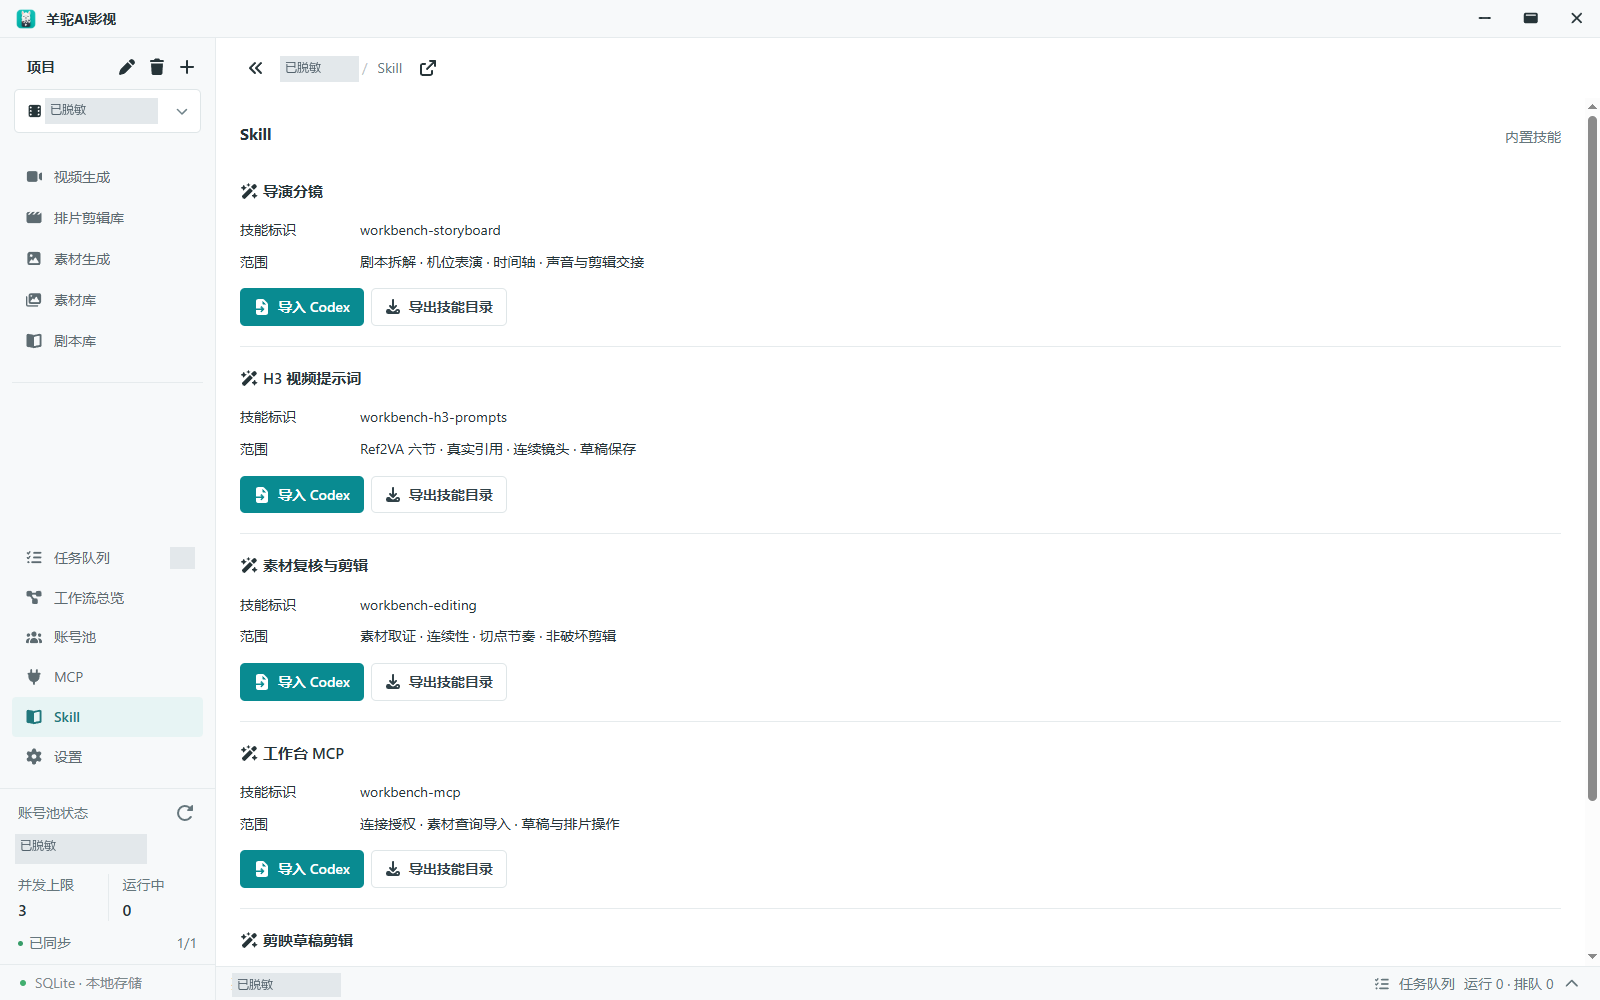
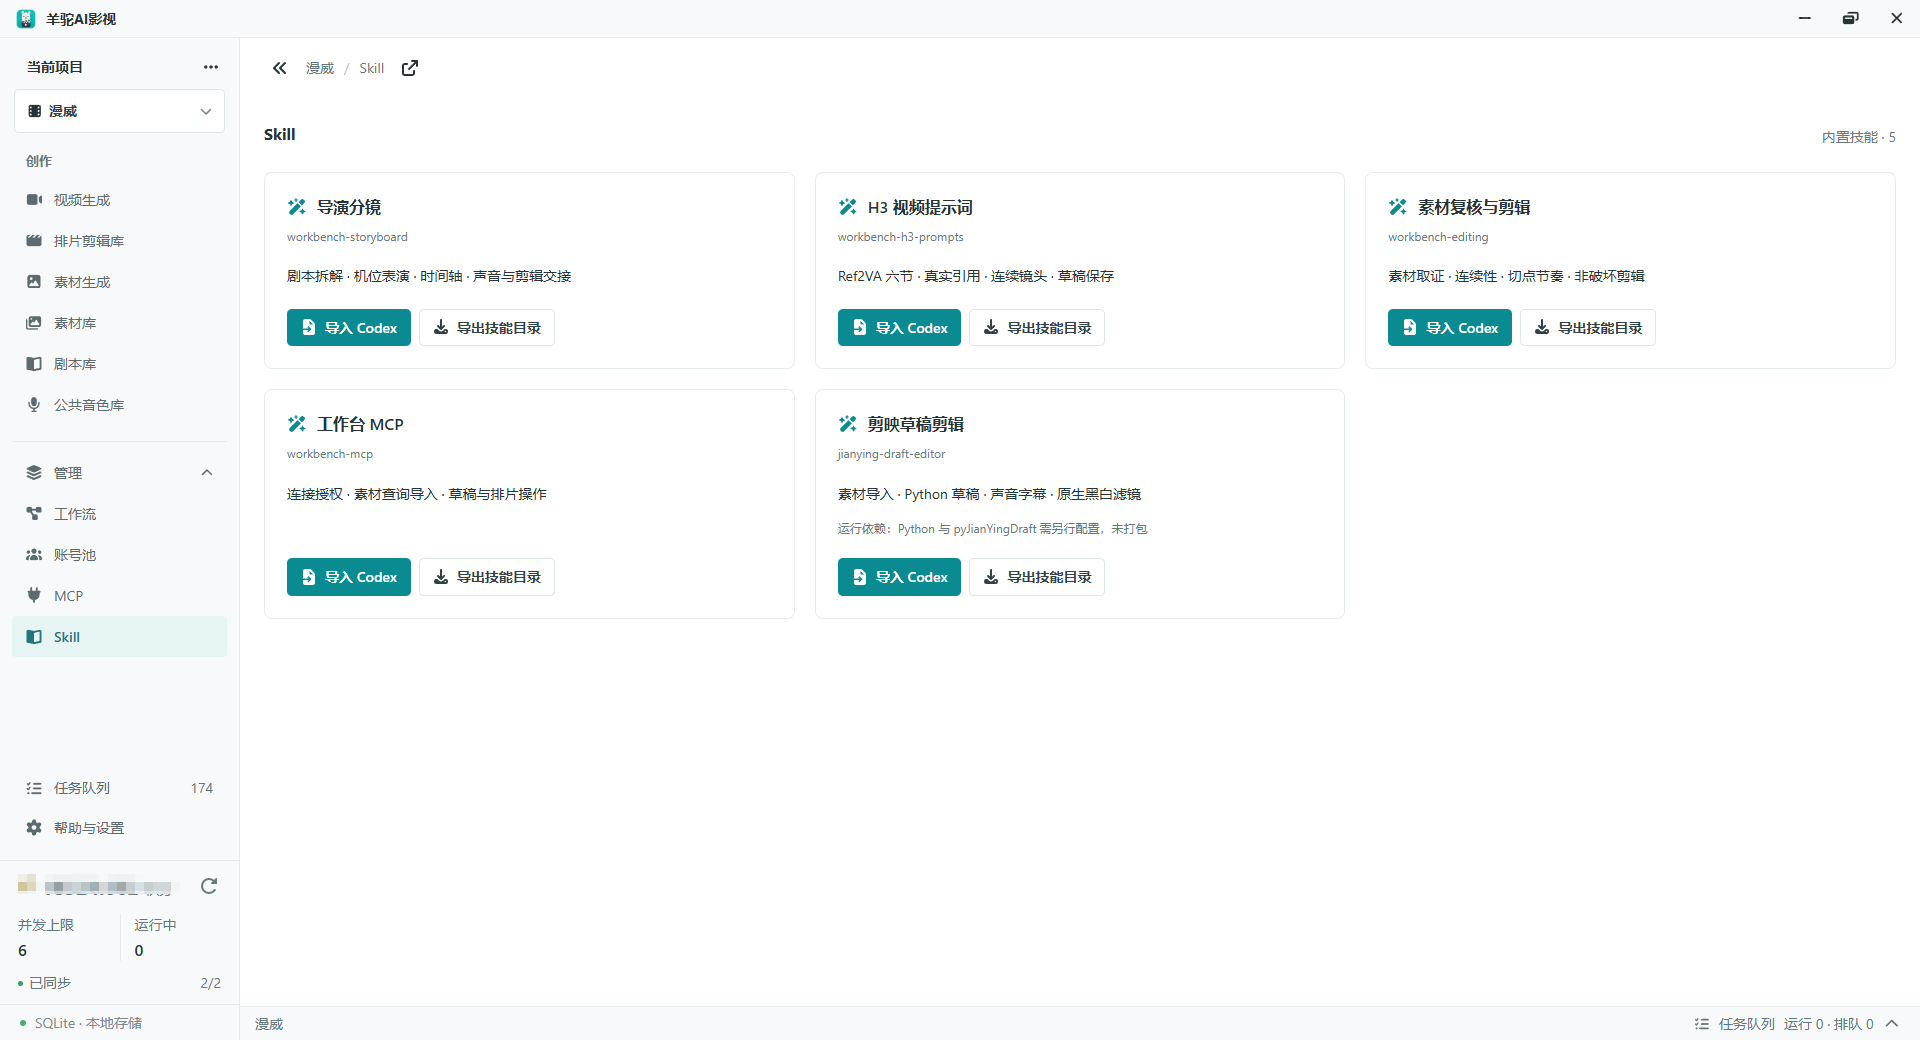
使用说明：修正声音工作流文案并更新脱敏配图
删除仍宣称支持图片工作流的过时内容，说明声音克隆参考原文、新台词与公共音色引用；同步 README、指南和应用内教程，采用七张用户脱敏截图并补充声音、Skill及导出定位介绍。

diff --git a/src/renderer/src/features/tutorial/TutorialPage.tsx b/src/renderer/src/features/tutorial/TutorialPage.tsx
@@ -9,14 +9,18 @@ const captions = [
   'RunningHub 头像菜单：查看账号标识并进入控制台',
   '工作台账号池：添加账号，填写账号标识和 API Key 后保存并同步',
   'RunningHub 控制台：消费级－会员中的 API 密钥',
-  '工作流：下载软件内置的加速版工作流',
+  '工作流：视频加速版、音色设计和声音克隆模板下载及线上配置',
   'RunningHub 工作台：导入下载的工作流',
   '视频草稿：参考素材、H3 全能参考提示词与生成结果',
   '视频生成示例：核对参考素材、生成参数和实际成片',
   '推荐流程示例：与智能体讨论分镜和片段衔接',
-  '推荐流程示例：准备并修订分镜参考素材'
+  '推荐流程示例：准备并修订分镜参考素材',
+  '公共音色库：试听、管理并引用公共参考音频',
+  '声音克隆：参考音频原文、待合成台词与生成结果',
+  '独立 Skill：按需安装或导出内置技能',
+  '排片剪辑：时间轴预览、字幕与导出文件定位'
 ]
-type Destination = 'accounts' | 'workflows' | 'video' | 'mcp' | 'skills' | 'assembly' | 'image-generation'
+type Destination = 'accounts' | 'workflows' | 'video' | 'mcp' | 'skills' | 'assembly' | 'image-generation' | 'voices'
 
 export function TutorialPage({ onNavigate }: { onNavigate: (view: Destination) => void }) {
   const [expanded, setExpanded] = useState<number | null>(null)
@@ -32,7 +36,7 @@ export function TutorialPage({ onNavigate }: { onNavigate: (view: Destination) =
     <h1>使用教程</h1><p className="muted">第一次使用，从准备工具开始。先配置账号池，再配置工作流，最后进入视频生产。</p>
     <nav className="tutorial-toc" aria-label="教程目录">
       <a href="#tutorial-ready">使用前提</a><a href="#tutorial-accounts">01 账号池</a><a href="#tutorial-workflows">02 工作流</a>
-      <a href="#tutorial-video">03 视频生成</a><a href="#tutorial-agent">推荐创作流程</a><a href="#tutorial-edit">排片与剪映</a>
+      <a href="#tutorial-video">03 视频生成</a><a href="#tutorial-voice">声音克隆与音色库</a><a href="#tutorial-agent">推荐创作流程</a><a href="#tutorial-edit">排片与剪映</a>
     </nav>
     <section id="tutorial-ready" className="tutorial-section"><h2>使用前提 · 准备好这些工具</h2>
       <ul><li><strong>RunningHub 会员：</strong>视频生成需要支持消费级 API Key 调用的会员权益和可用积分。购买前请确认对应套餐支持该能力。</li>
@@ -57,12 +61,21 @@ export function TutorialPage({ onNavigate }: { onNavigate: (view: Destination) =
         <li>检测线上工作流并核对识别结果。加速版包含采样与成片输出，没有独立低清预览；不同版本的可用预览能力可能不同。</li></ol>
       <p>如果工作流分享权限允许其他账号调用，可复用同一个线上工作流，无需重复上传；仍需在软件中为每个使用它的账号配置工作流归属，并确认该账号实际有权访问。</p>
       <div className="button-row"><Button onClick={() => onNavigate('workflows')}>前往工作流</Button></div>{figures([5, 6])}
+      <p>当前工作流支持视频与声音。声音模板提供 Qwen3 音色设计和 VoxCPM2 声音克隆；图片工作流模式已停用，图片生成请使用独立的“素材生成”。</p>
     </section>
     <section id="tutorial-video" className="tutorial-section"><h2>03 · 视频生成（配置完成后开始生产）</h2>
       <ol><li>先准备人物、场景和分镜图等参考素材，再创建项目与视频草稿。</li><li>使用内置 H3 视频提示词 Skill，让支持 Skill 的智能体输出 H3 六段式全能参考提示词，并核对其中图片、视频和音频引用与草稿中真实素材一致。</li>
         <li>将参考素材和提示词写入草稿，设置时长、画幅及清晰度，先保存并检查。</li><li>点击“提交生成”，明确选择账号与工作流，确认付费后提交。之后在任务队列查看进度，回到视频页核对可用预览和最终成片。</li></ol>
       <p className="tutorial-note">作者经验：搭配分镜图和加速工作流，部分约 10 秒片段可在 10 分钟以内完成。此为实测经验，排队、实例、分辨率和平台负载都会影响耗时，不作为完成时限承诺。截图中的单次结果仅作操作示例。</p>
-      <div className="button-row"><Button onClick={() => onNavigate('video')}>前往视频生成</Button><Button variant="outline" onClick={() => onNavigate('skills')}>获取 H3 提示词 Skill</Button></div>{figures([7, 8])}
+      <div className="button-row"><Button onClick={() => onNavigate('video')}>前往视频生成</Button><Button variant="outline" onClick={() => onNavigate('skills')}>获取 H3 提示词 Skill</Button></div>{figures([7])}
+    </section>
+    <section id="tutorial-voice" className="tutorial-section"><h2>声音克隆与公共音色库</h2>
+      <ol><li>从工作流页下载声音模板，导入 RunningHub，再配置所属账号与线上工作流 ID，检测后点击“打开”。</li>
+        <li>声音克隆需选择参考音频，在“参考音频文字”中填写录音的真实原文，在“台词”中填写需要合成的新内容。</li>
+        <li>“复制台词”复制展开区的推荐文本，适合先制作参考音频；不会自动填表，也不能替代已有录音的真实原文。</li>
+        <li>检查输入并确认费用后运行。完成的音频可试听、打开位置或加入公共音色库，供视频草稿作为音频参考引用。</li></ol>
+      <p>公共音色库负责收纳与引用；声音克隆在工作流运行页执行。参考文件仅在确认运行后上传，不因选择文件就自动提交。</p>
+      <div className="button-row"><Button onClick={() => onNavigate('workflows')}>前往声音工作流</Button><Button variant="outline" onClick={() => onNavigate('voices')}>打开公共音色库</Button></div>{figures([12, 11])}
     </section>
     <section id="tutorial-agent" className="tutorial-section"><h2>推荐创作流程 · 智能体准备，工作台生产</h2>
       <p>作者个人推荐使用 Codex 配合 Plus 会员完成分镜稿与素材准备，也可以选择其他支持所需能力的智能体。素材是视频创作的重要基础：先统一人物、场景和镜头参考，再批量准备多个片段。</p>
@@ -72,12 +85,13 @@ export function TutorialPage({ onNavigate }: { onNavigate: (view: Destination) =
         <li>单独启用剧本库能力后，可访问授权范围内的剧本文档；写操作仍受当前授权约束。</li><li>单独启用排片剪辑库能力后，可查询排片工程和版本、检查媒体，获得写权限后编排片段、声音、字幕和支持的转场等内容。</li>
         <li>素材生成相关操作需要另行开启对应权限；提交生成与额度限制以 MCP 页面当前授权为准。</li></ul>
       <p>视频生成付费提交仍在软件内确认。MCP 不提供账号密钥或任意磁盘读取；连接成功也不代表已经授予全部功能。</p>
-      <div className="button-row"><Button onClick={() => onNavigate('mcp')}>配置 MCP</Button><Button variant="outline" onClick={() => onNavigate('skills')}>查看内置 Skill</Button><Button variant="outline" onClick={() => onNavigate('image-generation')}>前往素材生成</Button></div>{figures([9, 10])}
+      <div className="button-row"><Button onClick={() => onNavigate('mcp')}>配置 MCP</Button><Button variant="outline" onClick={() => onNavigate('skills')}>查看内置 Skill</Button><Button variant="outline" onClick={() => onNavigate('image-generation')}>前往素材生成</Button></div>{figures([13, 9, 10])}
     </section>
     <section id="tutorial-edit" className="tutorial-section"><h2>排片剪辑库与剪映草稿</h2>
       <p>排片剪辑库用于编排已有片段，尤其适合预览生成片段之间的衔接。开启相应 MCP 授权后，可让智能体协助编排，再回软件检查画面、声音和节奏。</p>
       <p>需要继续在剪映精剪时，可使用内置“剪映草稿剪辑”Skill 创建可继续编辑的剪映草稿。需另行安装 Python 与 pyJianYingDraft 依赖，软件未打包这些运行依赖。具体环境配置与操作按技能说明执行。</p>
-      <div className="button-row"><Button onClick={() => onNavigate('assembly')}>前往排片剪辑库</Button><Button variant="outline" onClick={() => onNavigate('skills')}>获取剪映 Skill</Button></div>
+      <p>导出成功后，可在结果栏点击“在资源管理器中显示”，选中实际保存的 MP4 文件。</p>
+      <div className="button-row"><Button onClick={() => onNavigate('assembly')}>前往排片剪辑库</Button><Button variant="outline" onClick={() => onNavigate('skills')}>获取剪映 Skill</Button></div>{figures([14])}
     </section>
   </div>{expanded !== null && <Dialog className="tutorial-image-dialog" title={`图${expanded} · ${captions[expanded - 1]}`} onClose={() => setExpanded(null)}><img className="tutorial-full-image" src={source(expanded)} alt={captions[expanded - 1]} /></Dialog>}</section>
 }

diff --git a/README.md b/README.md
@@ -33,9 +33,15 @@
 
 ![工作流配置](media/screenshots/工作流.png)
 
+![声音克隆](media/screenshots/声音克隆.png)
+
+![公共音色库](media/screenshots/公共音色库.png)
+
 ![MCP 授权](media/screenshots/mcp.png)
 
 ![独立 Skill](media/screenshots/skill.png)
+
+![使用教程](media/screenshots/使用教程.png)
 
 ![多窗口](media/screenshots/多窗口.png)
 
@@ -48,6 +54,7 @@
 - **素材库**：按项目或公共范围管理图片、视频、音频和提示词，支持文件夹、标签、多选引用与归档。
 - **RunningHub 视频生成**：账号与工作流配置、全能参考提示词、任务进度、采样与低清预览、成片下载。预览是否可用取决于线上工作流和平台支持。
 - **消费明细**：查看成功视频任务的耗币，按账号、项目和日期筛选，补查历史任务费用；平台未返回的费用保留为未知。
+- **声音工作流与公共音色库**：下载音色设计、声音克隆模板，运行并收纳音频结果，用于视频音色参考。图片工作流模式已停用。
 - **素材生成**：连接生图服务，管理图片任务、参考图、结果版本和归档。
 - **排片剪辑**：素材编排、时间轴、声音、字幕、版本管理与 MP4 导出。
 - **MCP 与 Skill**：授权兼容客户端访问工作台，提供导演、H3 提示词、剪辑、MCP 和剪映草稿技能。

diff --git a/media/screenshots/README.md b/media/screenshots/README.md
@@ -1,6 +1,6 @@
 # README 截图位置
 
-本目录保存 README 使用的脱敏实拍。原图仅保存在开发者本地被忽略的 `.cache/private-screenshot-originals/`，不随仓库分发。图片为重新编码的无元数据 RGB PNG，遮挡直接写入像素，不保留隐藏图层。
+本目录保存 README 使用的脱敏实拍。2026-11-13 更新的视频生成、排片剪辑、工作流、公共音色库、声音克隆、Skill 和使用教程配图来自用户提供并确认已脱敏的 PNG，按原文件复制，不额外修改图像。此前版本的原图仅保存在开发者本地被忽略的 `.cache/private-screenshot-originals/`，不随仓库分发。
 
 | 文件名 | 建议画面 |
 | --- | --- |
@@ -13,6 +13,9 @@
 | `mcp.png` | MCP：范围和权限概览 |
 | `skill.png` | 分开安装或导出的内置技能 |
 | `多窗口.png` | 独立工作台窗口 |
+| `声音克隆.png` | 声音工作流运行输入与结果 |
+| `公共音色库.png` | 公共参考音频试听与管理 |
+| `使用教程.png` | 应用内教程入口与内容 |
 
 只保留软件窗口。用不透明色块遮挡账号名、ID、余额、Key、Token、MCP 配置、个人路径、项目及剧本文字、私有工作流 ID、未授权的素材与人物信息，不用可逆图层或仅模糊处理。导出为新的无元数据 PNG，并放大复查。
 
